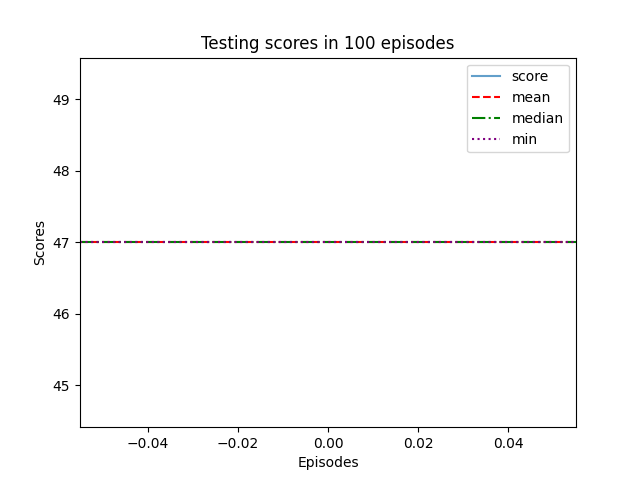
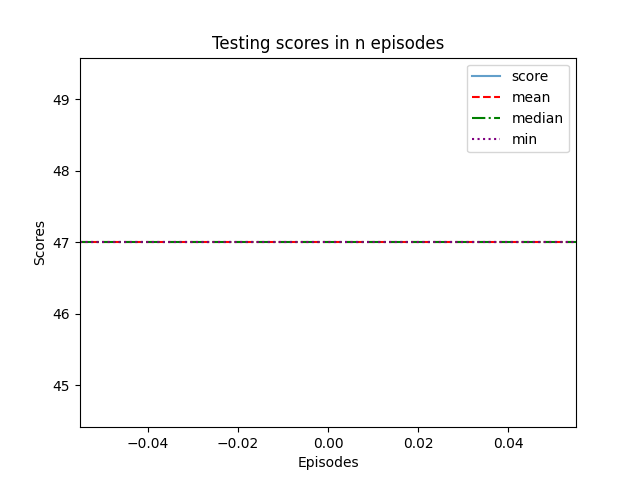
update code

Changed region(s): [[0.3125, 0.0625, 0.7188, 0.125]]

diff --git a/misc/plot_score.py b/misc/plot_score.py
@@ -1,21 +1,34 @@
-from cProfile import label
-import numpy as np
-import matplotlib.pyplot as plt
+import numpy as np 
+import matplotlib.pyplot as plt  
 
+# Load the scores from a NumPy file
 scores = np.load('./test_scores/DoubleDQN.npy')
-#print(scores)
+
+# Plot the scores with a label and some transparency
 plt.plot(scores, label='score', alpha=0.7)
+
+# Add text annotations for mean, median, and minimum score
 plt.text(85, np.mean(scores), 'mean (' + str(np.mean(scores)) +')')
 plt.text(85, np.median(scores)-5000, 'median (' + str(np.median(scores)) + ')')
 plt.text(85, np.min(scores)-5000, 'min (' + str(np.min(scores))+')')
 
+# Draw horizontal lines for mean, median, and minimum scores
 plt.axhline(y=np.mean(scores), color='r', linestyle='--', label='mean')
 plt.axhline(y=np.median(scores), color='g', linestyle='-.', label='median')
 plt.axhline(y=np.min(scores), color='purple', linestyle=':', label='min')
+
+# Label the x-axis and y-axis
 plt.xlabel('Episodes')
 plt.ylabel('Scores')
-plt.title('Testing scores in 100 episodes')
-plt.legend()
-plt.savefig('./misc/plots/ddqn_testing_scores.png')
-plt.clf()
 
+# Add a title to the plot
+plt.title('Testing scores in n episodes')
+
+# Add a legend to the plot
+plt.legend()
+
+# Save the plot as a PNG file
+plt.savefig('./misc/plots/ddqn_testing_scores.png')
+
+# Clear the current figure
+plt.clf()
